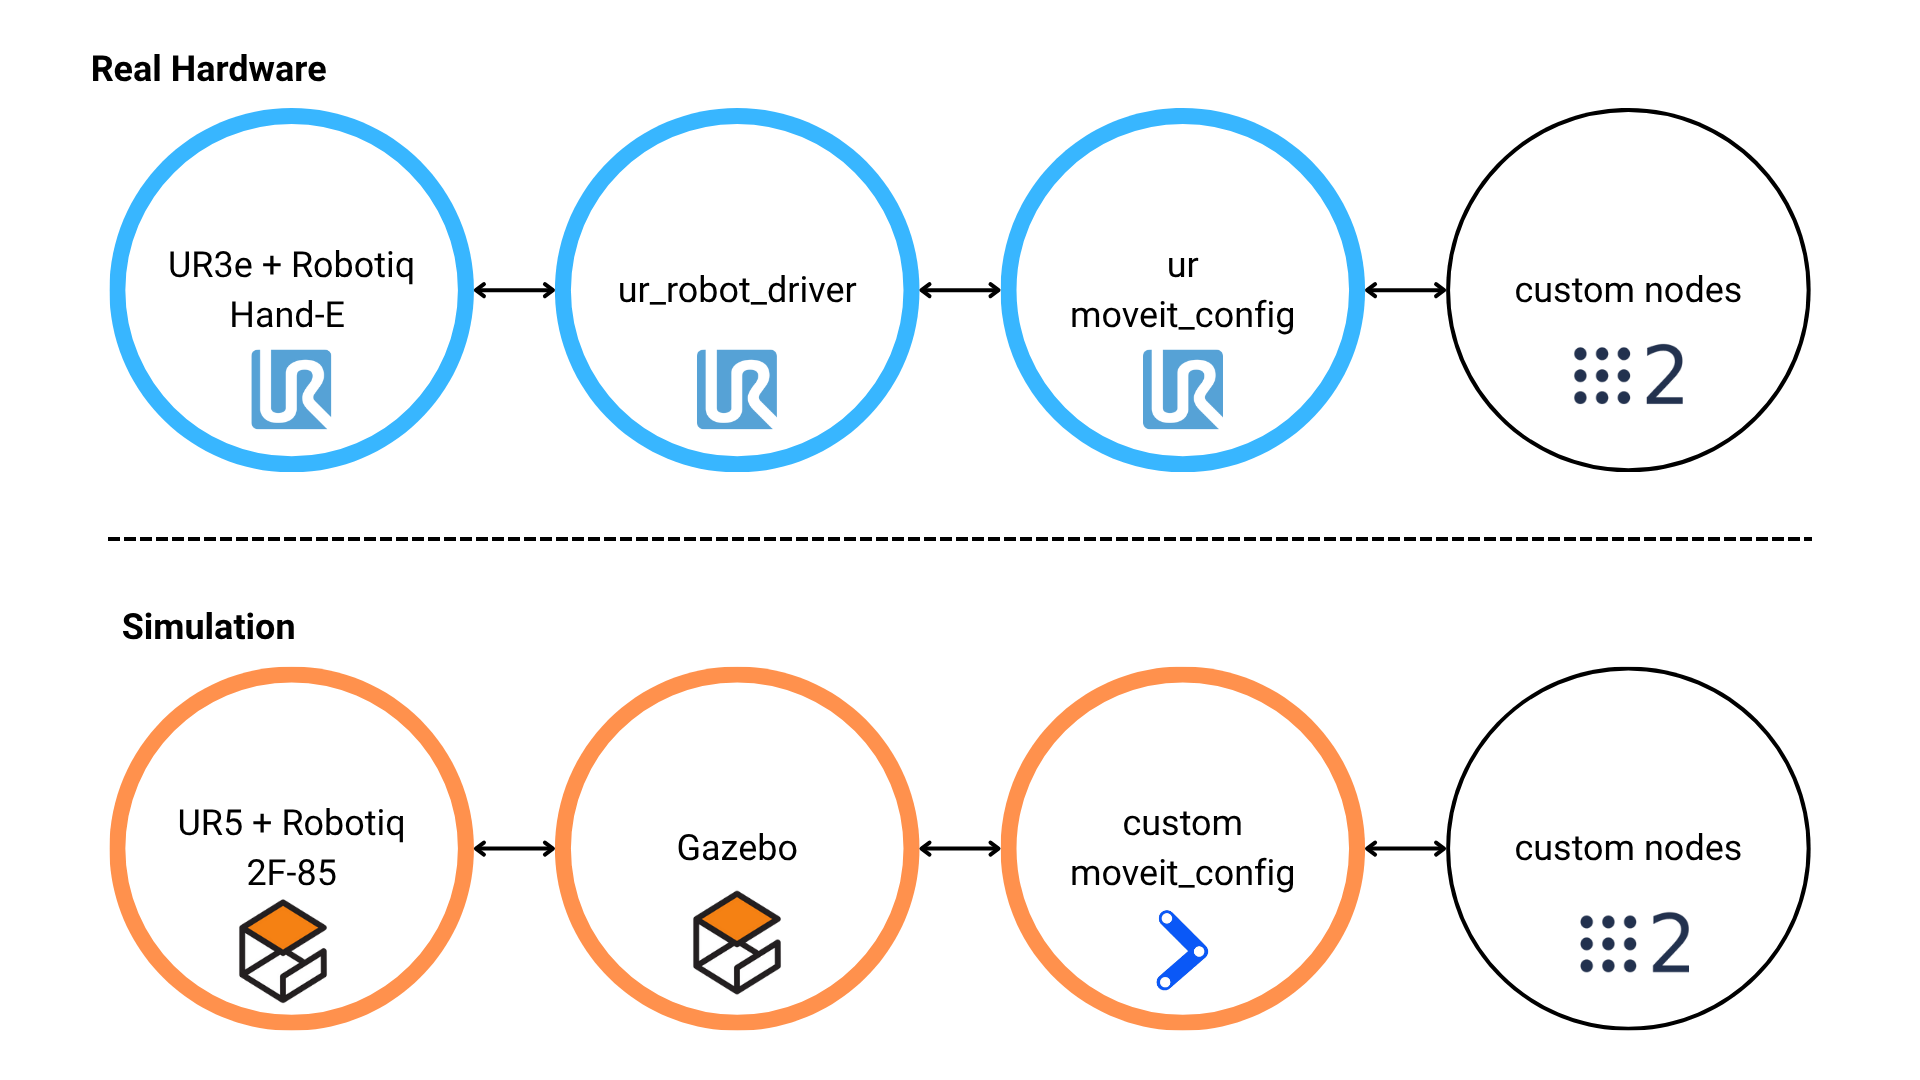
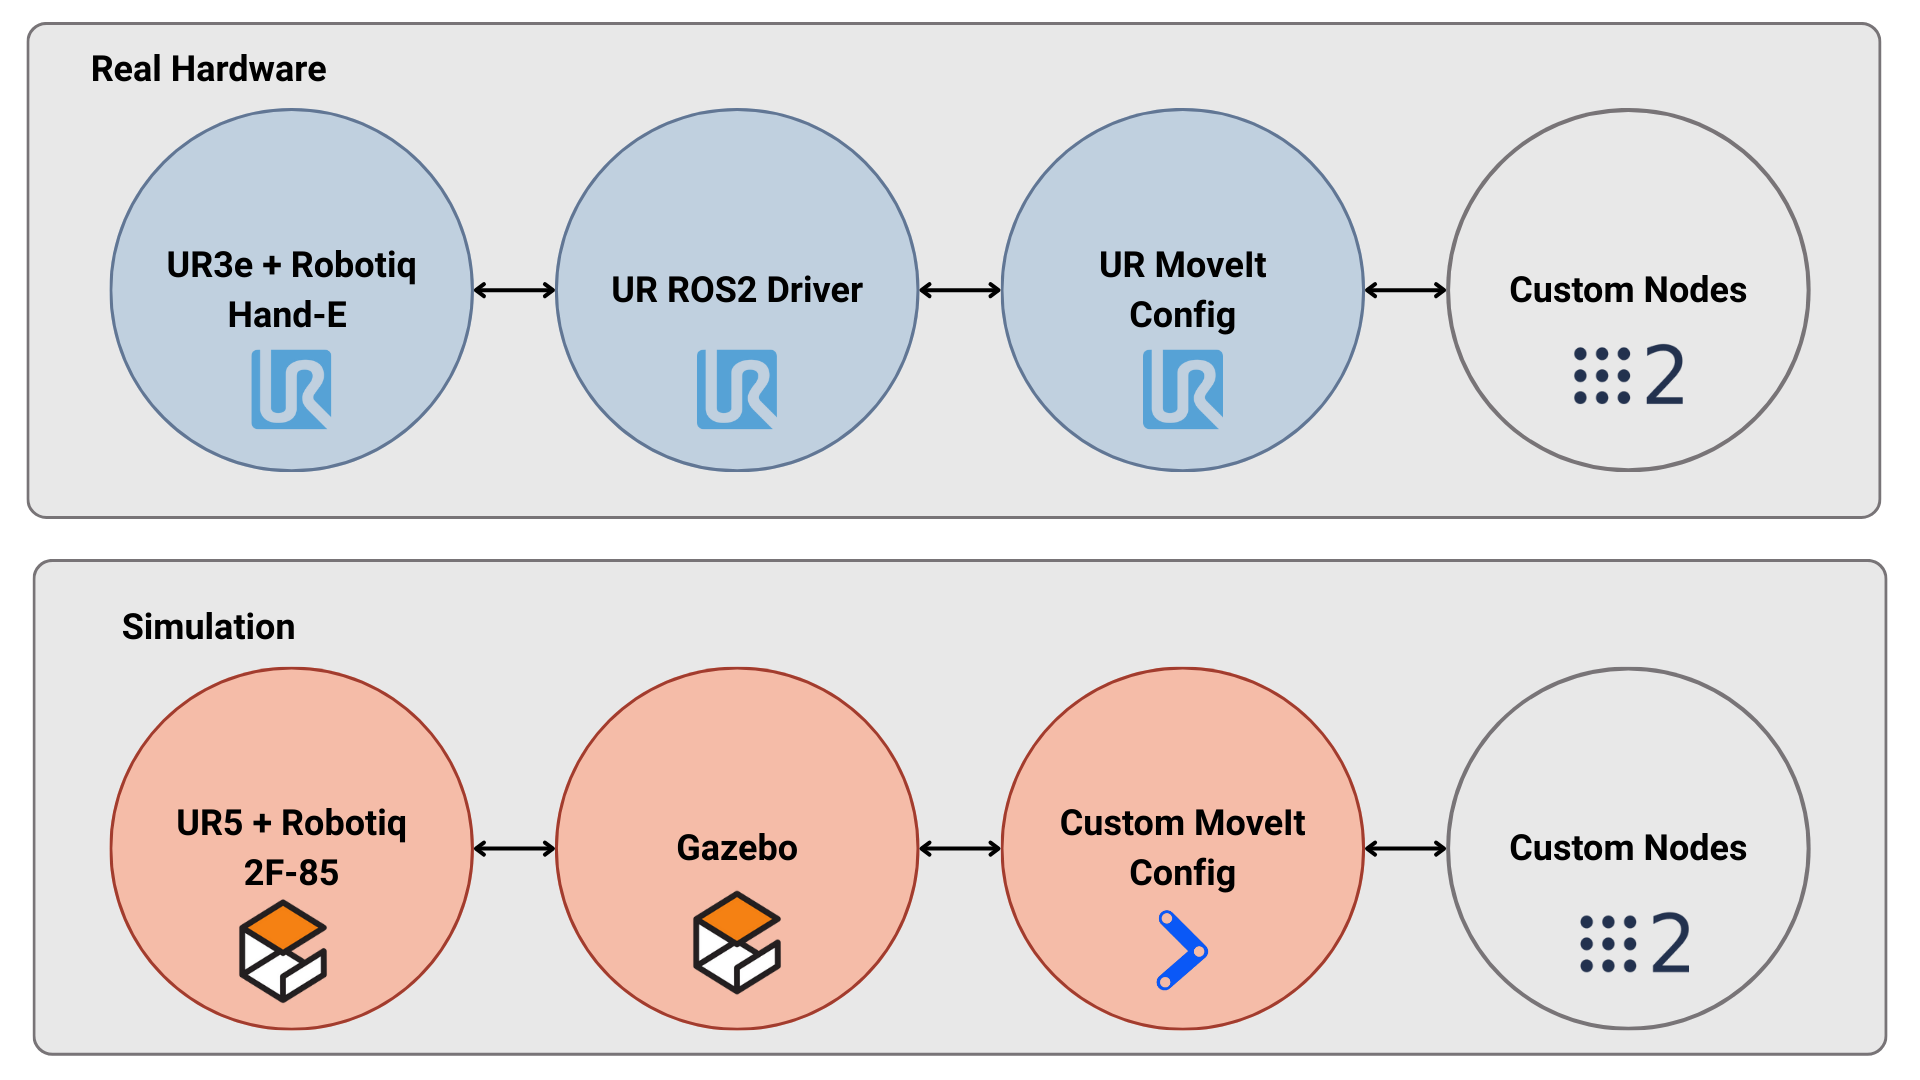
feat: update diagram to match tone

diff --git a/paper-main.tex b/paper-main.tex
@@ -387,8 +387,8 @@ Subsequently, the system was transferred to real hardware using a \textbf{UR3e r
 \begin{figure}[h]
     \centering
     \includegraphics[width=0.9\linewidth]{images/sim_vs_real.png}
-    \caption{Comparison between Simulation (Gazebo) and Real Hardware Setup (UR3e with Robotiq HandE gripper).}
-    \Description{Comparison between Simulation and Real Hardware}{Comparison between Simulation (Gazebo) and Real Hardware Setup (UR3e with Robotiq HandE gripper).}
+    \caption{Comparison between Real Hardware Setup (UR3e with Robotiq HandE gripper) and Simulation (Gazebo).}
+    \Description{Comparison between Real Hardware and Simulation}{Comparison between Real Hardware Setup (UR3e with Robotiq HandE gripper) and Simulation (Gazebo).}
     \label{fig:hardware-result-sim-vs-real}
 \end{figure}
 
